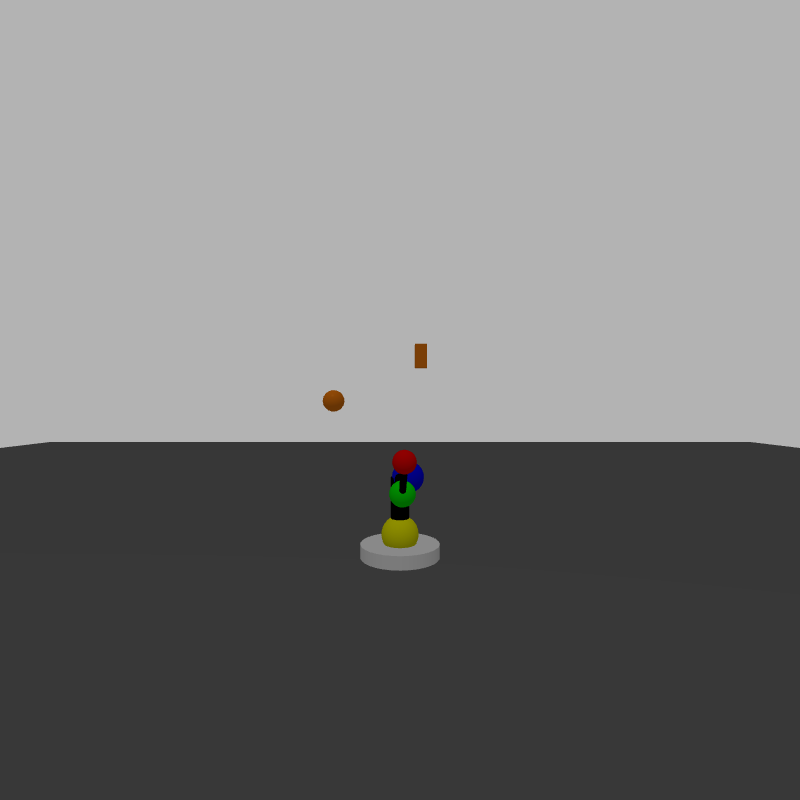
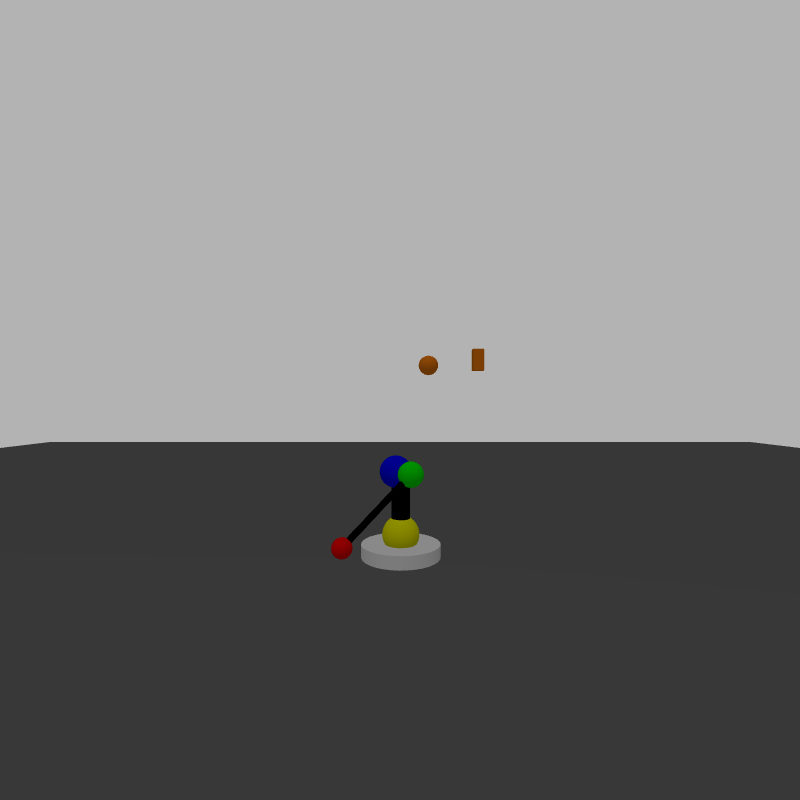
started outputting angles to a node, not very accurate when plotted against actual values

Changed region(s): [[0.4062, 0.5625, 0.5312, 0.7188], [0.5, 0.4062, 0.625, 0.4688], [0.4062, 0.4688, 0.4375, 0.5312]]

diff --git a/catkin_ws/src/ivr_assignment/src/angle_calc.py b/catkin_ws/src/ivr_assignment/src/angle_calc.py
@@ -21,12 +21,14 @@ class angle_calculator:
         self.camera1_sub = message_filters.Subscriber("image_topic1",Image)
         self.camera2_sub = message_filters.Subscriber("image_topic2",Image)
 
-        self.angle2_pub = rospy.Publisher("angle2_value",Float64,1)
-        self.angle3_pub = rospy.Publisher("angle3_value",Float64,1)
-        self.angle4_pub = rospy.Publisher("angle4_value",Float64,1)
+        self.angle2_pub = rospy.Publisher("angle2_value",Float64,queue_size=1)
+        self.angle3_pub = rospy.Publisher("angle3_value",Float64,queue_size=1)
+        self.angle4_pub = rospy.Publisher("angle4_value",Float64,queue_size=1)
 
         self.time_sync = message_filters.TimeSynchronizer([self.camera1_sub,self.camera2_sub],10)
         self.time_sync.registerCallback(self.callback)
+
+        self.sphere_img = cv2.imread("sphere_template.png",0)
 
         self.bridge = CvBridge()
 
@@ -77,10 +79,10 @@ class angle_calculator:
 
        return np.array([angle_one, angle_two, angle_three])
 
-    def find_sphere_centre(img):
+    def find_sphere_centre(self,img):
         choice = 'cv2.TM_CCOEFF'
         method = eval(choice)
-        template = cv2.imread('sphere_template.PNG', 0)
+        template = self.sphere_img
         w, h = template.shape[::-1]
 
         res = cv2.matchTemplate(img, template, method)
@@ -122,11 +124,21 @@ class angle_calculator:
 
         print(combinedSphereCentre)
 
-        print(cam1_angles)
-        print(cam2_angles)
 
-        angle2 = cam2_angles[1]
-        angle3 = cam1_angles[1]
+
+        angle2 = Float64()
+        angle2.data = cam1_angles[1]
+        angle3 = Float64()
+        angle3.data = cam2_angles[1]
+
+        print(angle2)
+        print(angle3)
+
+        try:
+            self.angle2_pub.publish(angle2)
+            self.angle3_pub.publish(angle3)
+        except CvBridgeError as e:
+            print(e)
 
         return
 
